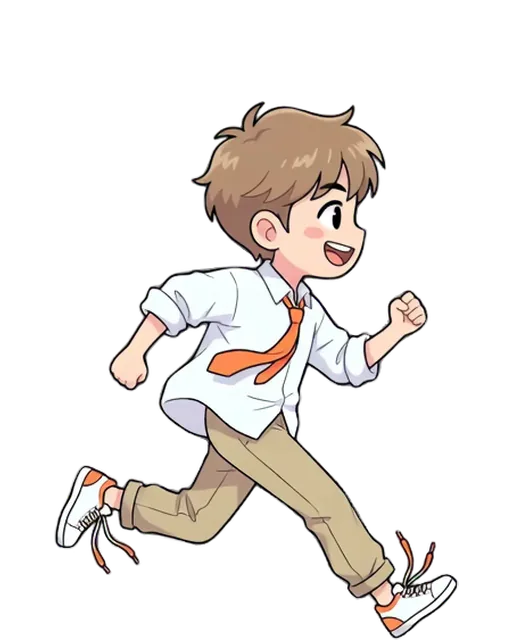
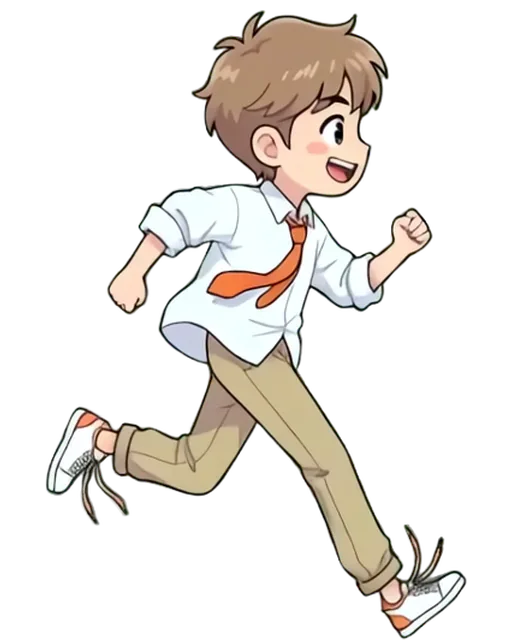
art(office): taller 고도약 redesign + Hydra run/jump cycles (slide/hit pending Ludo top-up)

diff --git a/public-office/art/SOURCES.md b/public-office/art/SOURCES.md
@@ -268,3 +268,13 @@ Ludo `animateSprite`, model **forge** (input = `hero-<id>-run1.webp`), one share
 Every shipped frame was inspected for facing: all right-facing.
 
 - `op-robot.webp` regenerated (standing pose, clover pin visible; refs: hero-robot-run1 + previous op-robot): nano_banana_flash — $STYLE. Portrait of exactly the character in the first reference image (curly brown bob, mint headband, mint cardigan, gold four-leaf-clover pin, mint pleated skirt, gold lanyard badge), in the same 2:3 framing and soft mint-gold pastel gradient background with sparkle accents as the second reference. STANDING confident pose facing three-quarter toward the viewer, one hand giving a cheerful wave or peace sign, the other hand near her chest so the gold clover pin is clearly visible, big lucky smile. Full body head to toe, centered, feet on the ground. No text.
+
+## Tall 고도약 redesign + Hydra (2026-11-02)
+
+- Design `ref-bunny-tall` (3rd attempt; ref = side-by-side of hero-kid-run1 and the old bunny run1): Bright Korean webtoon comic style, bold clean outlines, pastel base colors with neon accent pops, no text. Use the reference sheet: left = the chibi cast member (big head, 2.5 heads tall), right = the character to redesign. Draw ONLY the right character again, still a cute chibi with a BIG head like the cast (head height about 1/2.8 of his total height, only slightly smaller than the left one's), but noticeably taller and lankier: longer skinny legs and a longer thin torso than the left chibi, thin arms. Keep his identity: same face, messy light-brown hair, no glasses, loose untucked white shirt with rolled sleeves, loose orange necktie, khaki pants, white-orange sneakers with untied flapping laces, cheerful grin. Same line weight and coloring. Single character, running with a long stride in strict side profile facing RIGHT, full body head to toe, pure flat white background, no ground, no shadow.
+- `hero-bunny-jump.webp`: $STYLE. Same exact tall lanky character, outfit, colors, long-legged proportions (about 3 heads tall) and line style as the reference image. Single character only, full body, pure flat white background, no ground, no shadow, no objects. Seen strictly from the SIDE in profile, his nose and face pointing to the RIGHT edge exactly like the reference running pose; body also in side view, not turned toward the viewer. Mid-air gliding jump: both arms raised forward-up toward the right, knees tucked up, joyful open mouth.
+- `hero-bunny-hit.webp`: $STYLE. Same exact tall lanky character, outfit, colors, body proportions (long legs, about 3 heads tall), size and line style as the reference image. Single character only, full body head to toe, pure flat white background, no ground, no shadow, no speed lines, no objects. Strict side profile facing RIGHT (face and eyes toward the right edge), never toward the viewer. Comic dizzy stumble: leaning back off balance, one long leg lifted, arms flailing, spiral dizzy eyes, little stars above the head.
+- `hero-bunny-win.webp`: $STYLE. Same exact tall lanky character, outfit, colors, body proportions (long legs, about 3 heads tall), size and line style as the reference image. Single character only, full body head to toe, pure flat white background, no ground, no shadow, no speed lines, no objects. Facing the viewer, victory pose with both long arms raised high, huge happy open-mouth smile, sparkles around.
+- `op-bunny.webp` (2nd attempt): $STYLE. Character portrait of exactly the TALL LANKY character in the reference image: keep his long skinny legs and long torso (about 3 heads tall, clearly taller-proportioned than a chibi), light-brown messy hair, loose white shirt with rolled sleeves, loose orange tie, khaki pants, untied laces. STANDING confident pose with a thumbs-up, facing three-quarter toward the viewer, on a soft peach-orange pastel gradient background with sparkle and manga speed-line accents, 2:3 vertical framing, full body head to toe centered with a little space above the head. No text.
+- `hero-bunny-run1..8`: Ludo **hydra** 3 s loop, "running in place to the right, side-view looping run cycle, keeps facing right", frames 1,3,…,15; `hero-bunny-jump1..8`: hydra 3 s, "hops up in place: bends knees, springs up high with knees tucked, then lands softly on the same spot, side view facing right", frames 1,3,5,7,10,12,14,16, feet pinned at y=639 with NO shrink-to-fit. Both normalized to frame-1 height 630 px (the largest that keeps every run bob / jump pose uncropped in 512×640).
+- NOT redone (Ludo balance ran out): `hero-bunny-slide1..4`, `hero-bunny-hit1..4` (still the old short design, Forge) and all `hero-robot-*` animations (Forge).
